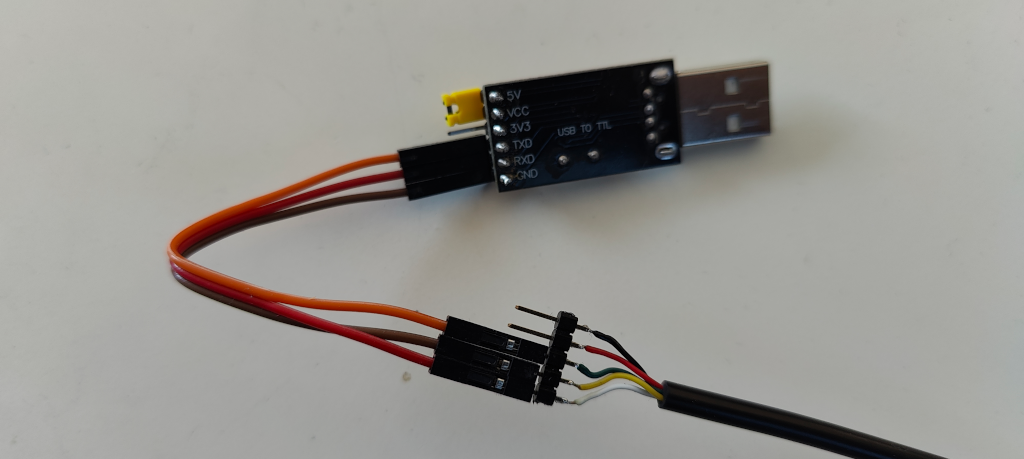
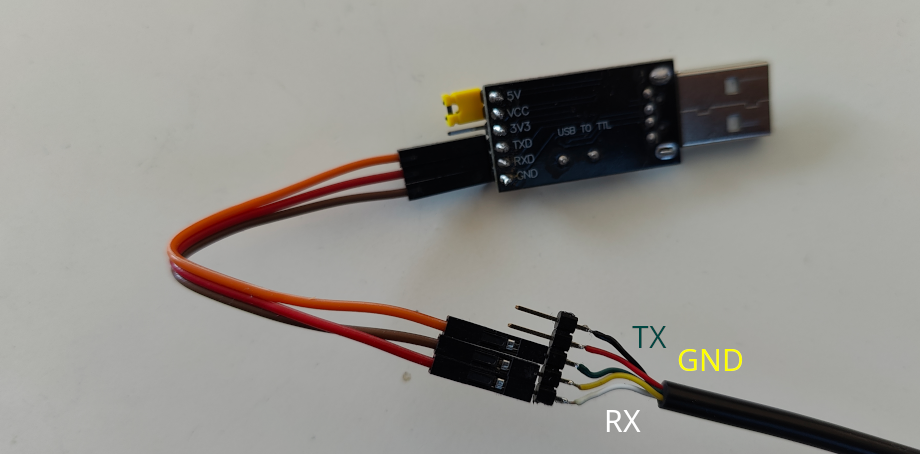
minor tweaks to 4pro guide

Changed region(s): [[0.1522, 0.1233, 1.0, 1.0]]

diff --git a/4pro2nd.md b/4pro2nd.md
@@ -17,20 +17,21 @@ The following UART adapters are known to work:
 
 - CH340
 - FT232RL
-- PL2303HX
+
+Caution with PL2303 type adapters:
+- PL2303**HX** works - but **HXA** does **not** (driver issues)
 
 Not tested: CP2102
 
-Recommendation: Buy an adapter with a cable attached to it, like shown in the image below. It will make your life a bit easier, since you won't have to buy additional DuPont wires to bridge pins.  
-![image](res/usb_uart_cable.png)
+Tip: If you can find an adapter with a cable attached to it, you won't have to buy additional DuPont wires to bridge the pins.
 
 #### Dashboard cable
-To connect the USB adapter with the scooter a risk-free method is to use a replacement dashboard cable (female Julet type connector). You can buy a ready-to-use dashboard breakout cable with pin headers here: [eBay](https://www.ebay.de/itm/356316680470). This cable is guaranteed to fit, but you can look for other options as well.
+To connect the USB adapter with the scooter a risk-free method is to use a replacement dashboard cable (female Julet type connector). You can buy a ready-to-use dashboard breakout cable with pin headers here: [eBay](https://www.ebay.de/itm/356418511323). This cable is guaranteed to fit, but you can look for other options as well.
 
 Remark: Due to the tight pin spacing and small size of the dashboard connector, creating a DIY wiring solution is challenging and risks causing a short circuit between the pins. Alternate methods are possible, but require opening up the scooter (see [here](#alternate-methods-to-connect-the-uart-adapter)).
 
-#### DuPont wires (optional)
-If you have an UART adapter without an attached cable, you'll need a set of female-to-female DuPont wires. The wires should have 80-100cm length to reach the adapter end without tension. If you can't find female-to-female wires in that length, simply extend the wires with sets of male-to-female wires.  
+#### DuPont wires
+If you have a standard UART adapter (without an attached cable), you'll need a set of female-to-female DuPont wires. The wires should have a minimum of 40-800cm length to reach the adapter end without tension. If you can't find female-to-female wires in that length, simply extend the wires with sets of male-to-female wires.
 ![image](res/dupont_collection.png)  
 
 ### Software
@@ -43,21 +44,21 @@ You can also run the tool locally from the BwFlasher source: [SourceCode](https:
 ### Step 1. Prepare cable
 Connect the UART adapter with the breakout [dashboard cable](#dashboard-cable). Either directly, if you have an adapter with an attached cable, or with DuPont wires otherwise.
 
-Dashboard cable | UART adapter
+Dashboard cable | Pinout
 -- | --
-White | RX (white)
-Yellow | GND (black)
-Green | TX (green)
-Red | /
-Black | /
+White | RX
+Yellow | GND
+Green | TX
+Red | 5V
+Black | BTN
 
 Note: The wire colors for the UART adapter can vary. Check back with the supplier which color is which.
 
-##### A) UART adapter with attached cable
-![image](res/uart_connection_direct.png)
-
-##### B) UART adapter + DuPont wires
+##### A) UART adapter + DuPont wires
 ![image](res/uart_connection_dupont.png)
+
+##### B) UART adapter with attached cable
+![image](res/uart_connection_direct.png)
 
 ### Step 2. Prepare patched firmware
 1. Visit this site: [mi-fw-info](https://mi-fw-info.streamlit.app)
@@ -71,7 +72,6 @@ Note: The wire colors for the UART adapter can vary. Check back with the supplie
 1. Start BwFlasher tool
 1. Check if the COM port is correctly set (see [here](#finding-out-the-com-port-number))
 1. Select the patched firmware file
-
 
 ### Step 4. Turn on the scooter and start flashing
 1. Remove the screws from the handlebar
@@ -107,3 +107,4 @@ If you don't have / want to buy a replacement dashboard cable, one of the follow
 - Pull out the pins of the original connector, then take new wires, crimp them and insert them into the connector. Connect the other end of the wires to the UART adapter.
 - Needle method (@turbojeet): Take household needles, cut off the wide thread ends and insert them into female dupont connectors. Stick those needles into the connector alongside the original pins / wires.
 - Soldering wires directly to the PCB: Unfeasible in this case, because the contacts are difficult to reach because of conformal coating / silicon.
+- Create custom female connector from DuPont wires (@KrYpz0n): [Video tutorial](https://www.youtube.com/watch?v=MEVXANRJ1IM)
